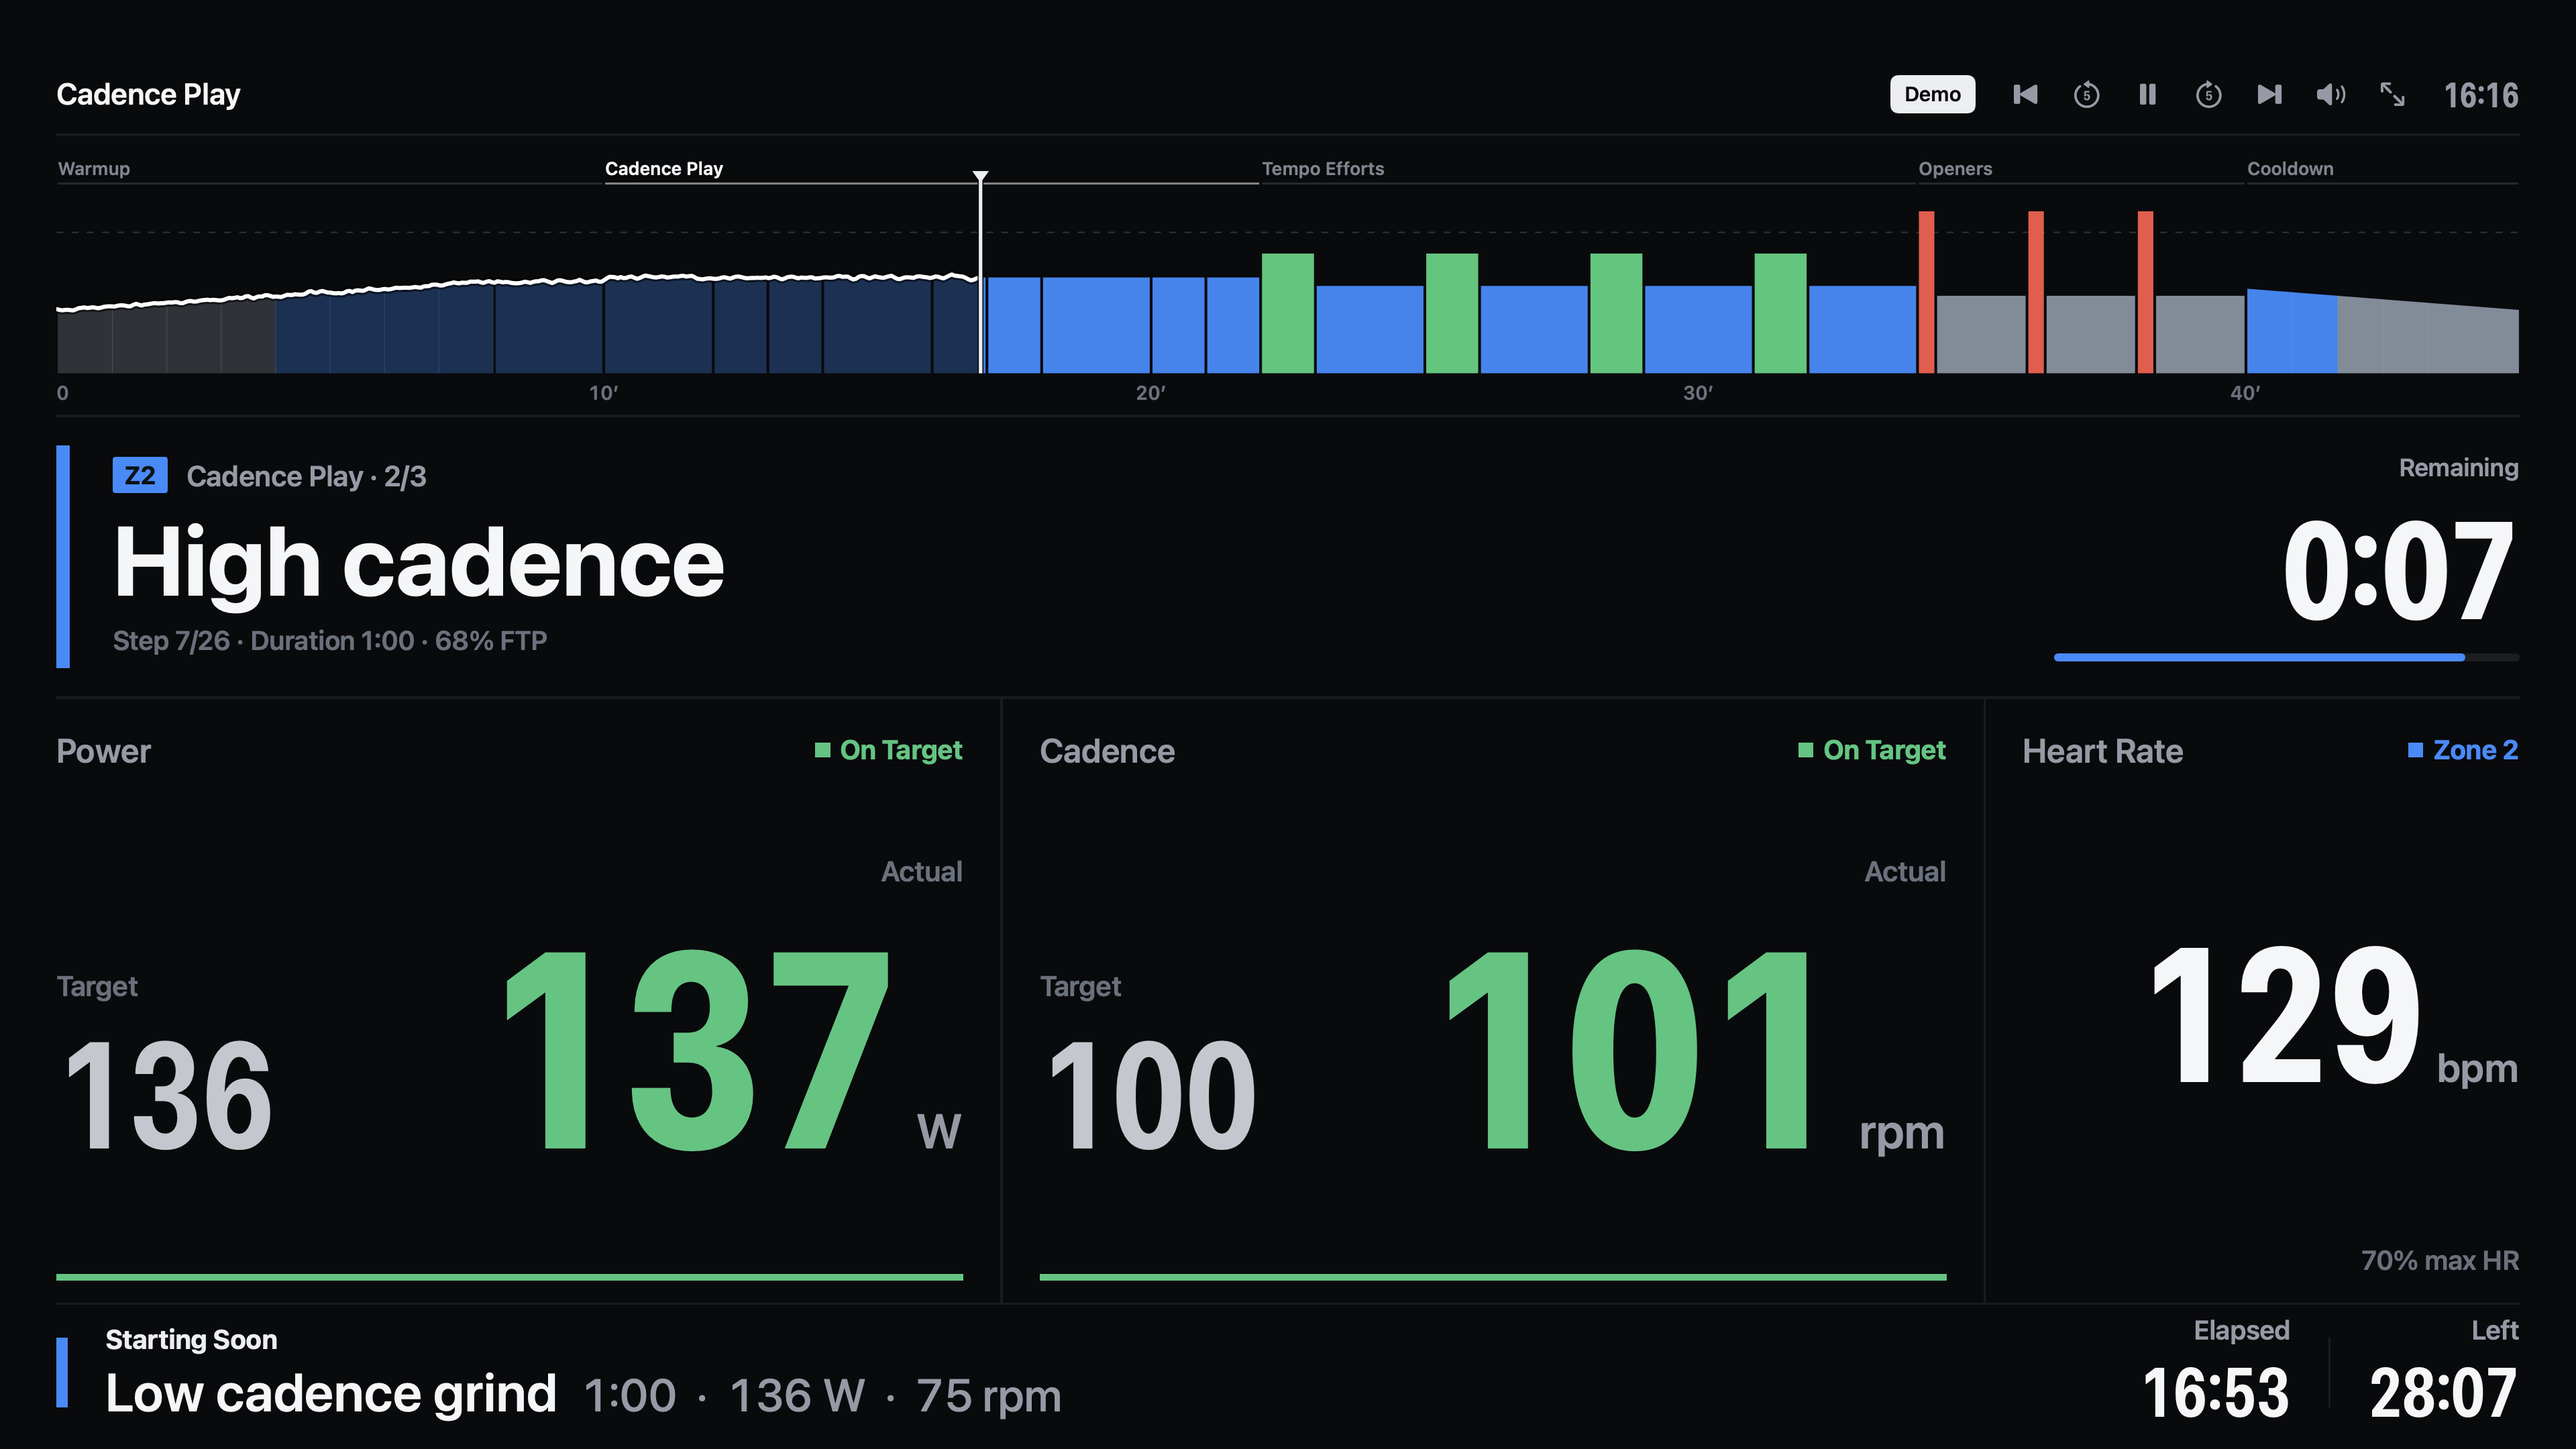
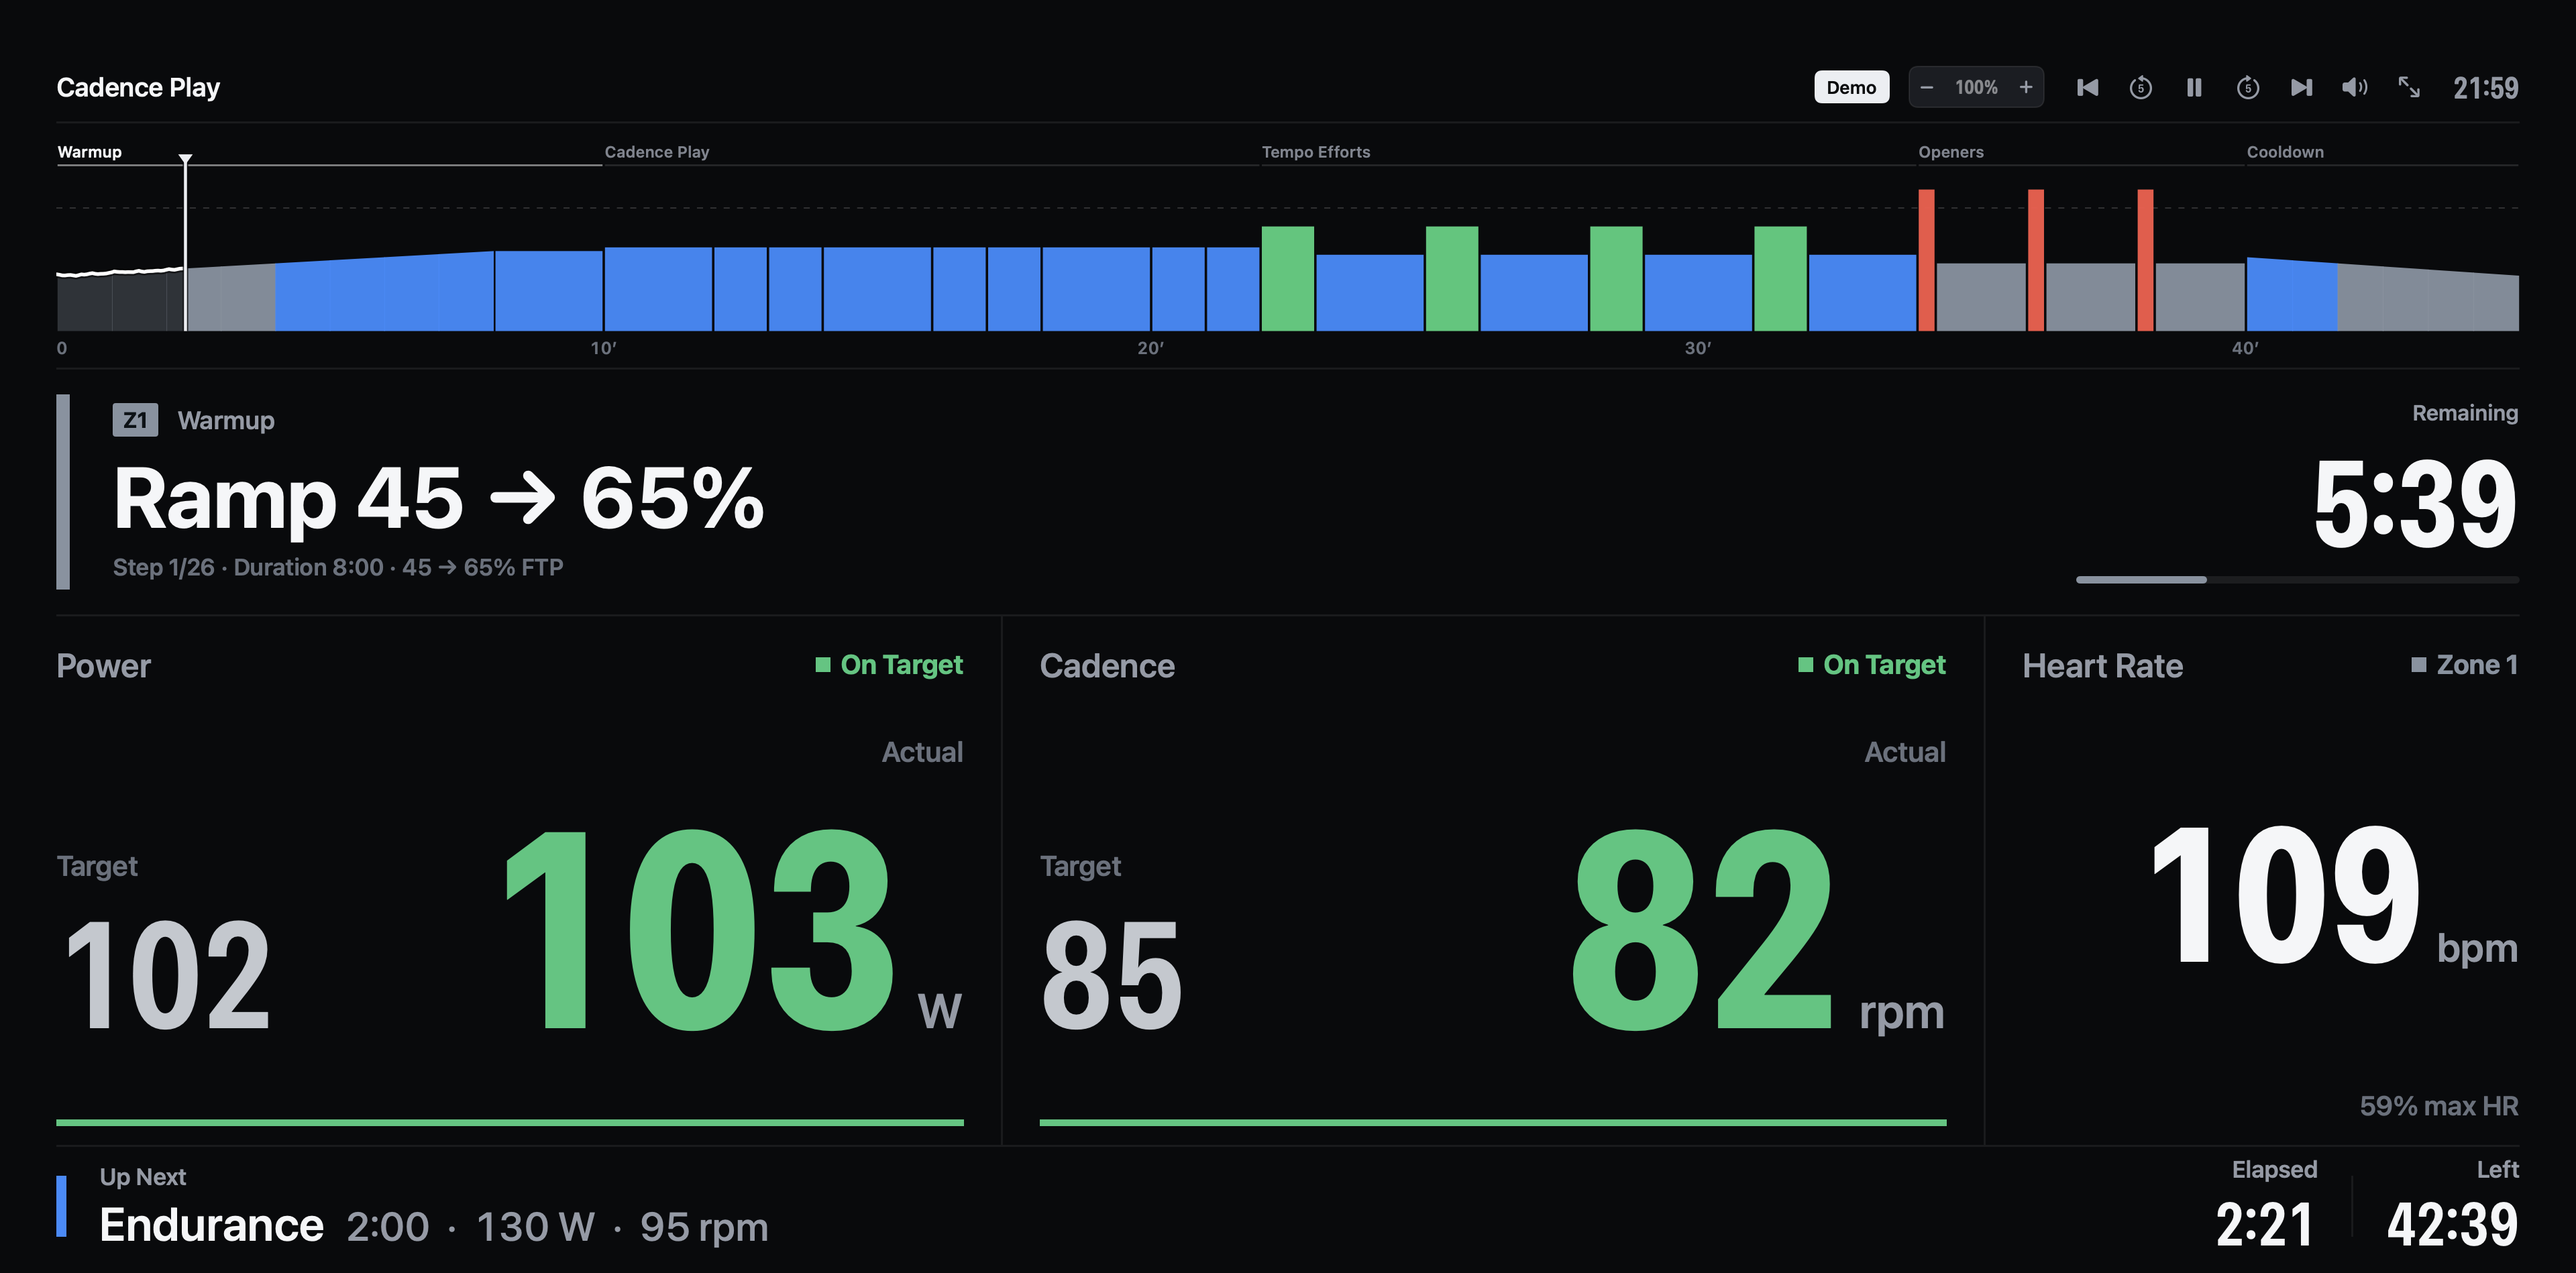
Release v1.2.0

diff --git a/README.md b/README.md
@@ -14,7 +14,7 @@ Calm typography, high contrast, and effortless sensor control — built for moni
 </a>
 
 <p>
-  <a href="https://github.com/Lassegra/metric/releases/tag/v1.1.0"><strong>Version 1.1.0</strong></a>
+  <a href="https://github.com/Lassegra/metric/releases/tag/v1.2.0"><strong>Version 1.2.0</strong></a>
   &nbsp;·&nbsp;
   macOS 14+
   &nbsp;·&nbsp;
@@ -66,8 +66,10 @@ Ride alongside your bike computer as a distraction-free display companion — or
 
 ## Highlights
 
-- **Offline Custom Workouts (`⌘ N`)** — Write workouts in compact text syntax, pick from 4 built-in templates, or import `.txt` files and clipboard text. Everything stays local on your Mac.
+- **Offline Custom Workouts (`⌘ N`)** — Write workouts in compact text syntax with a live profile chart, IF/TSS metrics, parser notices, and interval breakdown, pick from 4 built-in templates, or import `.txt` files and clipboard text. Everything stays local on your Mac.
+- **Live Workout Intensity (`50%`–`150%`)** — Dial target watts up or down in `±5%` steps mid-ride from the cockpit bar, keyboard (`↑` / `↓`, `0` to reset), or a handlebar remote without interrupting ERG control.
 - **Optional Intervals.icu Sync** — Enter a personal API key in **Settings (`⌘ ,`)** to load scheduled workouts (today + 6 days) and your Ride FTP. Keys stay exclusively in the **macOS Keychain** with strictly read-only HTTPS GET calls.
+- **Automatic Update Checks** — Optionally checks GitHub Releases on launch (or manually via **Metric → Check for Updates …**) with release highlights and a direct download link for `Metric.dmg`.
 - **Keep Your Bike Computer Connected** — Many trainers and straps allow only one or two concurrent Bluetooth connections. Pair your bike computer over **ANT+** whenever available so Bluetooth stays free for your Mac.
 
 <br>
@@ -92,10 +94,11 @@ Ride alongside your bike computer as a distraction-free display companion — or
 |---|---|---|---|---|
 | `Space` | Pause / Resume | | `⌘ ↩` | Start workout |
 | `←` / `→` | Previous / Next step | | `F` or `⌃⌘F` | Fullscreen |
-| `+` / `−` | Jump 5 s forward / back | | `M` | Sound on / off |
-| `Esc` | Pause | | `⌘ B` | Sensors |
-| `⌘ .` | End workout | | `⌘ ,` | Settings |
-| | | | `?` | Shortcuts overview |
+| `↑` / `↓` | Intensity `+5%` / `−5%` | | `M` | Sound on / off |
+| `0` | Reset intensity (`100%`) | | `⌘ B` | Sensors |
+| `+` / `−` | Jump 5 s forward / back | | `⌘ ,` | Settings |
+| `Esc` | Pause | | `?` | Shortcuts overview |
+| `⌘ .` | End workout | | | |
 
 <br>
 

diff --git a/CHANGELOG.md b/CHANGELOG.md
@@ -1,5 +1,13 @@
 # Changelog – Metric Cycling (App: Metric)
 
+## Version 1.2.0 (Build 3) – 2026-11-14
+
+### Highlights
+- **Automatic In-App Update Checks:** Metric now checks `Lassegra/metric` on GitHub Releases once on launch (quietly ignoring offline errors and skipped versions), adds a subtle sidebar update pill, an **Updates** section in Settings (`Automatic update check` + **Check Now …**), **Metric → Check for Updates …**, and an in-app **Update** sheet linking straight to `Metric.dmg`.
+- **Live Workout Intensity ("Bias"):** Adjust target power live during a ride from `50%` to `150%` in `±5%` steps using the compact top-bar control (`− 100% +`), keyboard shortcuts (`↑` / `↓`, `0` to reset), the `Workout` menu, or compatible handlebar remotes. Updates FTMS ERG targets immediately, rescales the profile chart/zone colors/Up Next target, and scores post-ride `Power Hit Rate` accurately against the biased targets.
+- **Redesigned Handlebar Remote Defaults:** Mapped `+` / `−` to **Intensity +5% / −5%**, `B` to **Reset intensity (100%)**, `A` to **Pause / Resume** (and Home screen Start), `←` / `→` to steps, `↑` / `↓` to `±5 s`, and `Y` to **Sound on/off** (all mappings remain customizable in Settings).
+- **Live Preview in Workout Editor:** Upgraded the **Add / Edit Workout** sheet into a split-pane editor with real-time `Duration`, `IF`, `TSS`, and `Avg Target` metrics, live power profile chart, line-referenced parser notices, scrollable interval list, and an empty-state quick syntax guide.
+
 ## Version 1.1.0 (Build 2) – 2026-11-14
 
 ### Highlights
